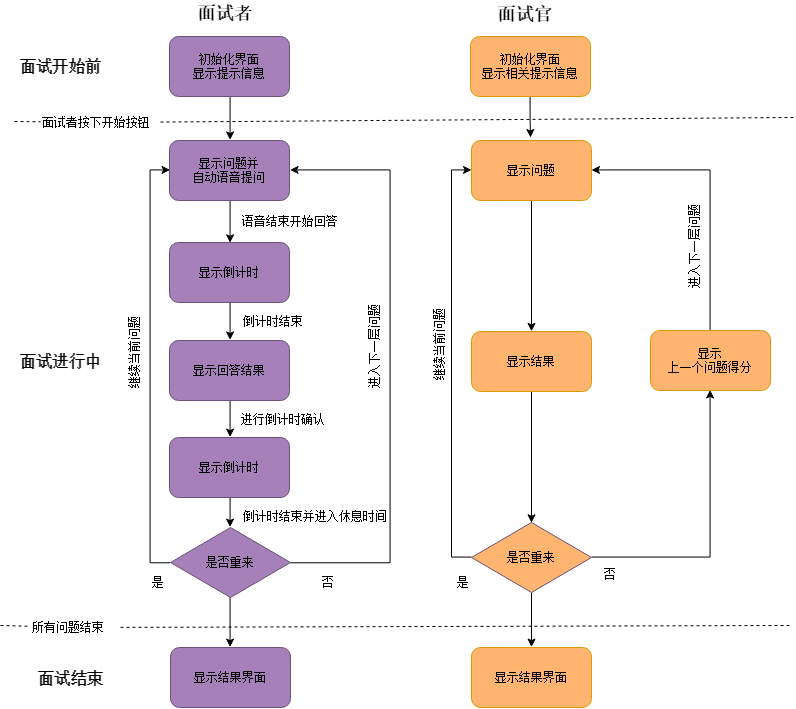
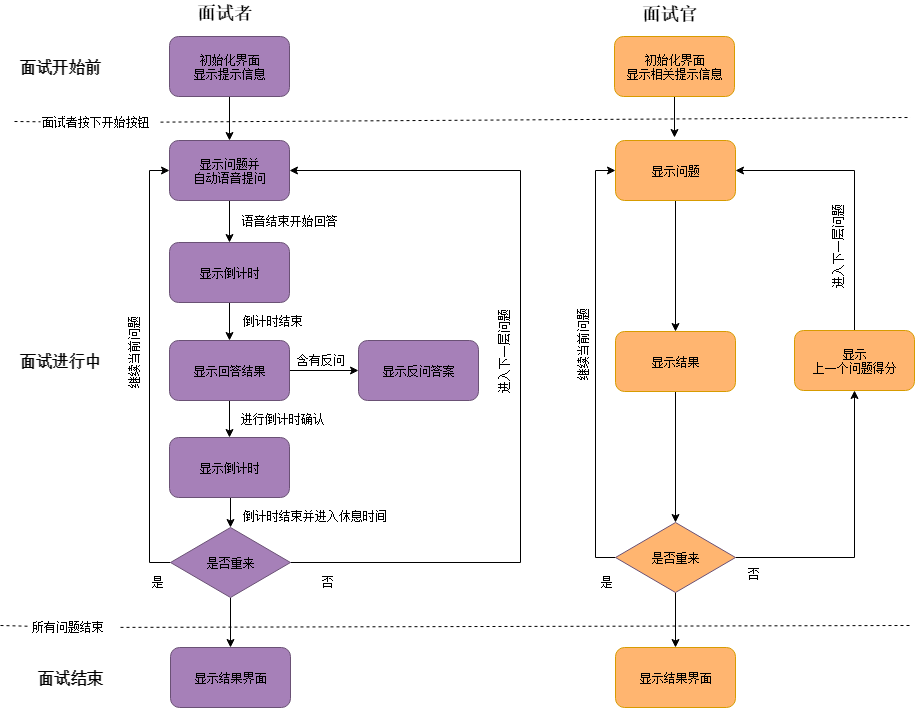
doc change

diff --git a/doc/WZ/AI-Interview(2018-12-26).md b/doc/WZ/AI-Interview(2018-12-26).md
@@ -63,7 +63,8 @@
 
 - **问题区域**
 
-  > 1.显示当前需要回答的问题 2.显示面试者回答问题中的反问问题答案
+  > 1.显示当前需要回答的问题  
+  > 2.显示面试者回答问题中的反问问题答案
 
 - **答案区域**
   > 1.显示当前问题回答者的答案
@@ -105,5 +106,4 @@
 > 暂无
 
 ### 二、 流程
-
 ![流程](./img/流程.png)
